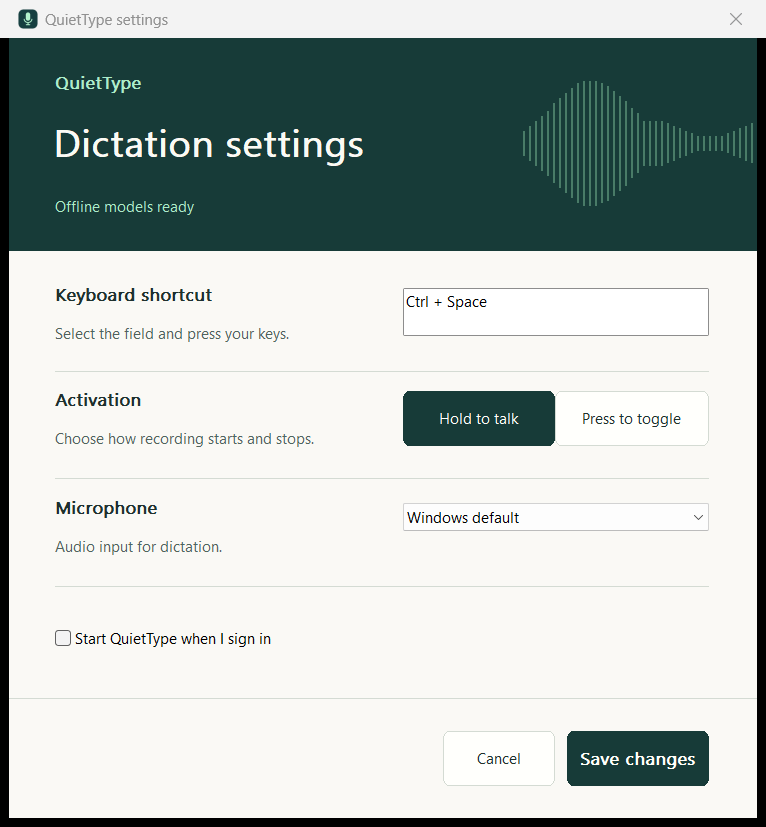
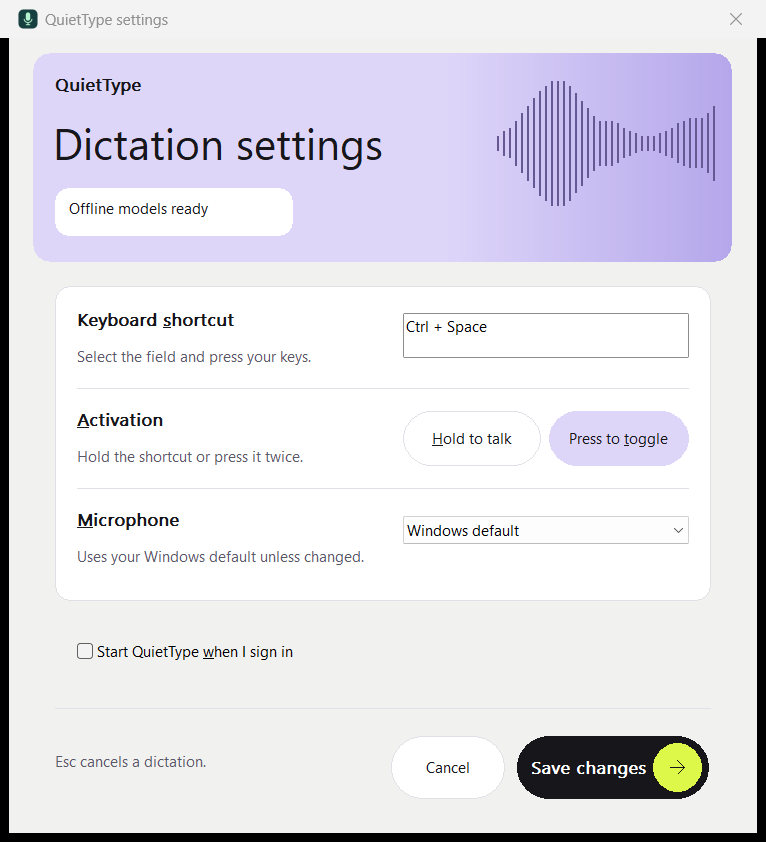
Refresh QuietType settings and README preview

diff --git a/src/visual.h b/src/visual.h
@@ -4,8 +4,8 @@
 #include <cmath>
 
 namespace visual {
-constexpr COLORREF pine=RGB(23,59,56), mint=RGB(172,236,201), paper=RGB(250,249,245),
-    ink=RGB(31,49,46), muted=RGB(81,99,94), line=RGB(212,219,211);
+constexpr COLORREF ink=RGB(23,22,27), lime=RGB(221,248,72), paper=RGB(241,241,239),
+    lavender=RGB(222,214,249), card=RGB(255,255,255), muted=RGB(92,88,105), line=RGB(226,224,231);
 
 inline bool highContrast() {
     HIGHCONTRASTW hc{sizeof(hc)};
@@ -26,64 +26,110 @@ inline RECT units(HWND h,int x,int y,int right,int bottom) {
 }
 struct Settings {
     HFONT title{},label{},small{};
-    HBRUSH body{},header{};
+    HBRUSH body{},header{},fieldCard{},badge{};
     bool hc{};
     void init(HWND h) {
         hc=highContrast();
         body=CreateSolidBrush(hc?GetSysColor(COLOR_WINDOW):paper);
-        header=CreateSolidBrush(hc?GetSysColor(COLOR_WINDOW):pine);
-        title=font(h,23,FW_SEMIBOLD);label=font(h,10,FW_SEMIBOLD);small=font(h,9,FW_NORMAL);
+        header=CreateSolidBrush(hc?GetSysColor(COLOR_WINDOW):lavender);
+        fieldCard=CreateSolidBrush(hc?GetSysColor(COLOR_WINDOW):card);
+        badge=CreateSolidBrush(hc?GetSysColor(COLOR_WINDOW):card);
+        title=font(h,26,FW_LIGHT);label=font(h,10,FW_SEMIBOLD);small=font(h,9,FW_NORMAL);
         for(int id:{110,113,114,115,IDOK})SendDlgItemMessageW(h,id,WM_SETFONT,(WPARAM)label,TRUE);
         SendDlgItemMessageW(h,111,WM_SETFONT,(WPARAM)title,TRUE);
-        for(int id:{112,120,121,122})SendDlgItemMessageW(h,id,WM_SETFONT,(WPARAM)small,TRUE);
+        for(int id:{112,120,121,122,123})SendDlgItemMessageW(h,id,WM_SETFONT,(WPARAM)small,TRUE);
         SendMessageW(h,WM_SETICON,ICON_SMALL,(LPARAM)LoadIconW(GetModuleHandleW(nullptr),MAKEINTRESOURCEW(2)));
     }
     void close() {
         for(auto f:{title,label,small})DeleteObject(f);
-        DeleteObject(body);DeleteObject(header);
+        DeleteObject(body);DeleteObject(header);DeleteObject(fieldCard);DeleteObject(badge);
     }
     void surface(HWND h,HDC dc) const {
         RECT all{};GetClientRect(h,&all);FillRect(dc,&all,body);
-        RECT hero=units(h,0,0,374,85);FillRect(dc,&hero,header);
+        RECT hero=units(h,12,6,362,90);
+        if(!hc) {
+            int saved=SaveDC(dc);
+            HRGN shape=CreateRoundRectRgn(hero.left,hero.top,hero.right,hero.bottom,34,34);
+            SelectClipRgn(dc,shape);DeleteObject(shape);
+            FillRect(dc,&hero,header);
+            RECT fade=units(h,215,6,362,90);
+            for(int x=fade.left;x<fade.right;++x) {
+                int t=(x-fade.left)*100/(fade.right-fade.left);
+                fill(dc,{x,fade.top,x+1,fade.bottom},RGB(222-t*42/100,214-t*48/100,249-t*15/100));
+            }
+            RestoreDC(dc,saved);
+        }
         if(!hc) {
             // A repeating voiceprint, clipped to the header's right edge.
-            for(int i=0;i<49;i++){
-                double x=i/48.0;
+            for(int i=0;i<37;i++){
+                double x=i/36.0;
                 double envelope=0.50+0.50*std::sin(8.2*x-1.0);
                 int amplitude=3+int(24*envelope*(0.38+0.62*std::abs(std::sin(6.5*x+0.1))));
-                fill(dc,units(h,251+3*i,42-amplitude,252+3*i,42+amplitude),RGB(73,123,103));
+                fill(dc,units(h,244+3*i,42-amplitude,245+3*i,42+amplitude),RGB(102,88,147));
             }
         }
-        auto divider=hc?GetSysColor(COLOR_WINDOWTEXT):line;
-        for(int y:{133,176,219}) {
-            RECT r=units(h,23,y,350,y);r.bottom++;fill(dc,r,divider);
+        if(!hc) {
+            int saved=SaveDC(dc);
+            SelectObject(dc,GetStockObject(DC_PEN));
+            SelectObject(dc,GetStockObject(DC_BRUSH));
+            SetDCPenColor(dc,line);
+            SetDCBrushColor(dc,card);
+            auto panel=units(h,23,99,351,225);
+            RoundRect(dc,panel.left,panel.top,panel.right,panel.bottom,30,30);
+            SetDCPenColor(dc,card);
+            SetDCBrushColor(dc,card);
+            auto pill=units(h,23,60,142,79);
+            RoundRect(dc,pill.left,pill.top,pill.right,pill.bottom,28,28);
+            RestoreDC(dc,saved);
         }
-        RECT footer=units(h,0,264,374,265);footer.bottom=footer.top+1;fill(dc,footer,divider);
+        auto divider=hc?GetSysColor(COLOR_WINDOWTEXT):line;
+        for(int y:{140,180}) {
+            RECT r=units(h,34,y,340,y);r.bottom++;fill(dc,r,divider);
+        }
+        RECT footer=units(h,23,268,351,269);footer.bottom=footer.top+1;fill(dc,footer,divider);
     }
     INT_PTR color(HWND control,HDC dc) const {
         int id=GetDlgCtrlID(control);
         bool inHeader=id>=110 && id<=112;
-        COLORREF fg=hc?GetSysColor(COLOR_WINDOWTEXT):(inHeader?(id==111?RGB(251,250,244):mint):(id>=120?muted:ink));
+        COLORREF fg=hc?GetSysColor(COLOR_WINDOWTEXT):(id>=120?muted:ink);
         SetTextColor(dc,fg);SetBkMode(dc,TRANSPARENT);
-        return (INT_PTR)(inHeader?header:body);
+        if(id==112)return (INT_PTR)badge;
+        bool inCard=(id>=113 && id<=115) || (id>=120 && id<=122);
+        return (INT_PTR)(inHeader?header:inCard?fieldCard:body);
     }
     bool action(HWND h,NMHDR *hdr) const {
         if(hc || hdr->code!=NM_CUSTOMDRAW || (hdr->idFrom!=IDOK && hdr->idFrom!=IDCANCEL &&
             hdr->idFrom!=102 && hdr->idFrom!=105))return false;
         auto *draw=reinterpret_cast<NMCUSTOMDRAW*>(hdr);
         if(draw->dwDrawStage!=CDDS_PREPAINT)return false;
-        bool selected=hdr->idFrom==IDOK || SendMessageW(hdr->hwndFrom,BM_GETCHECK,0,0)==BST_CHECKED;
+        bool primary=hdr->idFrom==IDOK;
+        bool active=SendMessageW(hdr->hwndFrom,BM_GETCHECK,0,0)==BST_CHECKED;
         bool hover=(draw->uItemState&CDIS_HOT)!=0,down=(draw->uItemState&CDIS_SELECTED)!=0;
         HDC dc=draw->hdc;RECT r=draw->rc;int saved=SaveDC(dc);
-        fill(dc,r,paper);SelectObject(dc,GetStockObject(DC_PEN));SelectObject(dc,GetStockObject(DC_BRUSH));
-        SetDCPenColor(dc,selected?pine:line);
-        SetDCBrushColor(dc,selected?(down?RGB(15,44,40):hover?RGB(39,80,72):pine):(hover||down?RGB(235,240,233):RGB(255,255,252)));
-        RoundRect(dc,r.left,r.top,r.right,r.bottom,12,12);
-        SetBkMode(dc,TRANSPARENT);SetTextColor(dc,selected?RGB(255,255,250):ink);
+        fill(dc,r,(hdr->idFrom==102 || hdr->idFrom==105)?card:paper);
+        SelectObject(dc,GetStockObject(DC_PEN));SelectObject(dc,GetStockObject(DC_BRUSH));
+        COLORREF bg=primary?(hover||down?RGB(52,48,64):ink):
+            active?(hover||down?RGB(207,196,245):lavender):(hover||down?paper:card);
+        SetDCPenColor(dc,primary||active?bg:line);SetDCBrushColor(dc,bg);
+        int height=r.bottom-r.top;
+        RoundRect(dc,r.left,r.top,r.right,r.bottom,height,height);
+        RECT labelRect=r;
+        if(primary) {
+            int inset=height/8;
+            int right=r.right-inset, left=r.right-height+inset;
+            SetDCPenColor(dc,lime);SetDCBrushColor(dc,lime);
+            Ellipse(dc,left,r.top+inset,right,r.bottom-inset);
+            SetDCPenColor(dc,ink);
+            int x=(left+right)/2,y=(r.top+r.bottom)/2,arrow=height/8;
+            MoveToEx(dc,x-arrow,y,nullptr);LineTo(dc,x+arrow,y);
+            MoveToEx(dc,x,y-arrow,nullptr);LineTo(dc,x+arrow,y);LineTo(dc,x,y+arrow);
+            labelRect.right=left;labelRect.left+=inset;
+        }
+        SetBkMode(dc,TRANSPARENT);SetTextColor(dc,primary?card:ink);
         SelectObject(dc,(HFONT)SendMessageW(hdr->hwndFrom,WM_GETFONT,0,0));
         wchar_t text[64]{};GetWindowTextW(hdr->hwndFrom,text,64);
         UINT cues=SendMessageW(hdr->hwndFrom,WM_QUERYUISTATE,0,0);
-        DrawTextW(dc,text,-1,&r,DT_CENTER|DT_VCENTER|DT_SINGLELINE|((cues&UISF_HIDEACCEL)?DT_HIDEPREFIX:0));
+        DrawTextW(dc,text,-1,&labelRect,DT_CENTER|DT_VCENTER|DT_SINGLELINE|((cues&UISF_HIDEACCEL)?DT_HIDEPREFIX:0));
         if((draw->uItemState&CDIS_FOCUS) && !(cues&UISF_HIDEFOCUS)){InflateRect(&r,-4,-4);DrawFocusRect(dc,&r);}
         RestoreDC(dc,saved);SetWindowLongPtrW(h,DWLP_MSGRESULT,CDRF_SKIPDEFAULT);return true;
     }

diff --git a/src/main.cpp b/src/main.cpp
@@ -78,21 +78,21 @@ LRESULT CALLBACK paint(HWND h,UINT m,WPARAM w,LPARAM l) {
         SetMapMode(dc,MM_ANISOTROPIC);SetWindowExtEx(dc,210,44,nullptr);
         SetViewportExtEx(dc,r.right,r.bottom,nullptr);
         bool hc=visual::highContrast();
-        COLORREF bg=hc?GetSysColor(COLOR_WINDOW):visual::pine;
+        COLORREF bg=hc?GetSysColor(COLOR_WINDOW):visual::ink;
         COLORREF fg=hc?GetSysColor(COLOR_WINDOWTEXT):RGB(251,250,244);
         visual::fill(dc,{0,0,210,44},bg);
         int heights[]={7,15,23,13,7};
         for(int i=0;i<5;i++) {
             int x=17+4*i,top=22-heights[i]/2;
-            visual::fill(dc,{x,top,x+2,top+heights[i]},hc?fg:visual::mint);
+            visual::fill(dc,{x,top,x+2,top+heights[i]},hc?fg:visual::lime);
         }
         HFONT face=CreateFontW(-15,0,0,0,FW_SEMIBOLD,0,0,0,DEFAULT_CHARSET,0,0,CLEARTYPE_QUALITY,0,L"Segoe UI");
         SelectObject(dc,face);SetTextColor(dc,fg);SetBkMode(dc,TRANSPARENT);
         RECT label{47,0,163,44};DrawTextW(dc,status.c_str(),-1,&label,DT_SINGLELINE|DT_VCENTER);
         RECT key{162,9,195,35};
         if(state!=State::Delivering){
-            visual::fill(dc,key,hc?GetSysColor(COLOR_BTNFACE):RGB(49,82,74));
-            SetTextColor(dc,hc?GetSysColor(COLOR_BTNTEXT):visual::mint);
+            visual::fill(dc,key,hc?GetSysColor(COLOR_BTNFACE):RGB(59,54,76));
+            SetTextColor(dc,hc?GetSysColor(COLOR_BTNTEXT):visual::lime);
             DrawTextW(dc,L"Esc",-1,&key,DT_CENTER|DT_VCENTER|DT_SINGLELINE);
         }
         RestoreDC(dc,saved);DeleteObject(face);EndPaint(h,&ps);return 0;
